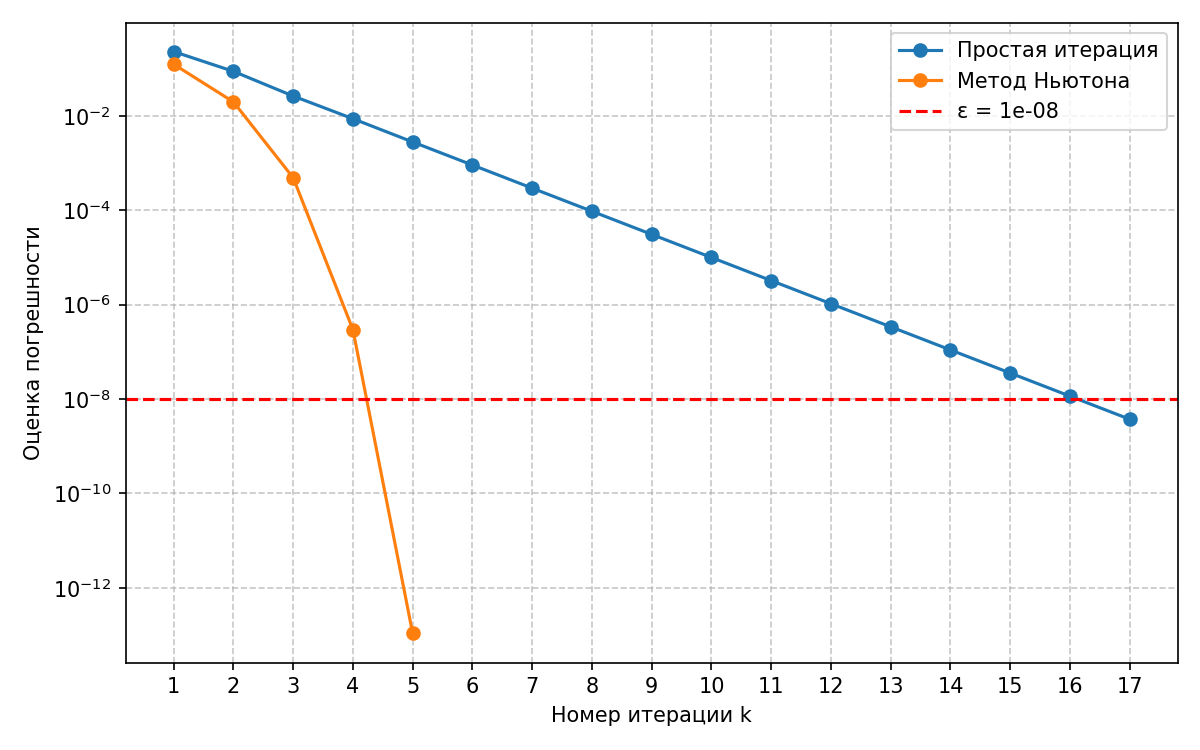
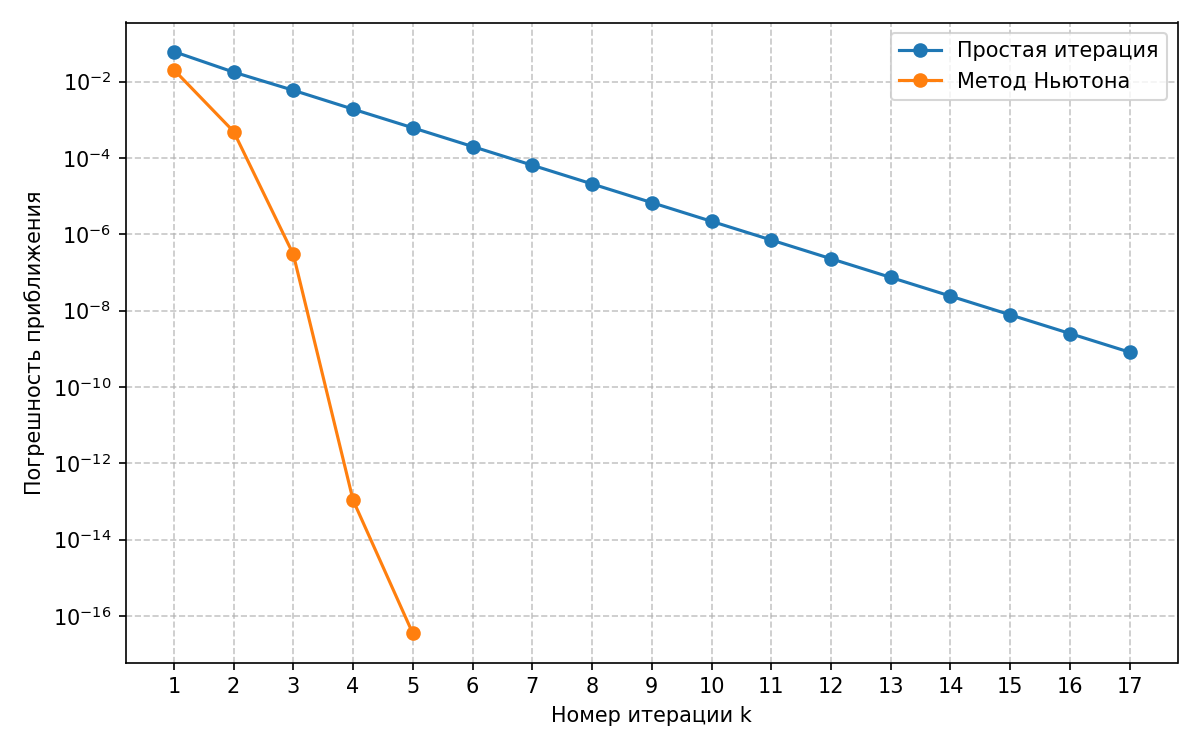
r

diff --git a/lab2/nonlinear_system.py b/lab2/nonlinear_system.py
@@ -37,7 +37,7 @@ def jacobian(values):
         raise ValueError("аргумент логарифма должен быть положительным")
     return np.array([
         [1, np.sin(x2)],
-        [-1 / ((x1 + 1) * np.log(10)), 1],
+        [-1 / ((x1 + 1) * np.log(np.longdouble(10))), 1],
     ])
 
 
@@ -109,7 +109,14 @@ def compare_methods(simple_count, newton_count):
     return "Метод Ньютона оказался быстрее."
 
 
-def create_plot(solution, initial, parameter, plot_config):
+def create_plot(
+    solution,
+    initial,
+    parameter,
+    x1_bounds,
+    x2_bounds,
+    plot_config,
+):
     """Построить графики уравнений системы."""
     import matplotlib.pyplot as plt
 
@@ -121,6 +128,15 @@ def create_plot(solution, initial, parameter, plot_config):
     plt.figure(figsize=(8, 5))
     plt.plot(first_x1, x2_values, label="x₁ = 1 + cos(x₂)")
     plt.plot(x1_values, second_x2, label="x₂ = 1 + lg(x₁ + 1)")
+    plt.axvline(
+        x1_bounds[0],
+        color="gray",
+        linestyle="--",
+        label="границы области D",
+    )
+    plt.axvline(x1_bounds[1], color="gray", linestyle="--")
+    plt.axhline(x2_bounds[0], color="gray", linestyle="--")
+    plt.axhline(x2_bounds[1], color="gray", linestyle="--")
     plt.scatter(
         *initial,
         color="orange",
@@ -137,8 +153,13 @@ def create_plot(solution, initial, parameter, plot_config):
     plt.close()
 
 
-def create_error_plot(simple_history, newton_history, epsilon, plot_config):
-    """Построить график зависимости погрешности от номера итерации."""
+def create_error_plot(
+    simple_history,
+    newton_history,
+    reference_solution,
+    plot_config,
+):
+    """Построить график ошибки относительно эталонного решения."""
     import matplotlib.pyplot as plt
 
     plt.figure(figsize=(8, 5))
@@ -147,17 +168,14 @@ def create_error_plot(simple_history, newton_history, epsilon, plot_config):
         (newton_history, "Метод Ньютона"),
     ):
         iterations = [item[0] for item in history]
-        errors = [item[2] for item in history]
+        errors = [
+            np.max(np.abs(item[1] - reference_solution))
+            for item in history
+        ]
         plt.semilogy(iterations, errors, marker="o", label=label)
 
-    plt.axhline(
-        epsilon,
-        color="red",
-        linestyle="--",
-        label=f"ε = {epsilon:g}",
-    )
     plt.xlabel("Номер итерации k")
-    plt.ylabel("Оценка погрешности")
+    plt.ylabel("Погрешность приближения")
     iterations = {
         item[0]
         for history in (simple_history, newton_history)
@@ -175,6 +193,7 @@ def main():
     try:
         config = read_json(INPUT_FILE)
         epsilon = float(config["epsilon"])
+        reference_epsilon = np.longdouble(epsilon) ** 2
         max_iterations = int(config["max_iterations"])
         parameter = float(config["a_parameter"])
         initial_guess = np.array(config["initial_guess"], dtype=float)
@@ -205,11 +224,25 @@ def main():
             parameter,
             zero_tolerance,
         )
-        create_plot(newton_solution, initial_guess, parameter, plot_config)
+        reference_solution, _, _ = newton_method(
+            initial_guess.astype(np.longdouble),
+            reference_epsilon,
+            max_iterations,
+            np.longdouble(parameter),
+            np.longdouble(zero_tolerance),
+        )
+        create_plot(
+            newton_solution,
+            initial_guess,
+            parameter,
+            x1_bounds,
+            x2_bounds,
+            plot_config,
+        )
         create_error_plot(
             simple_history,
             newton_history,
-            epsilon,
+            reference_solution,
             plot_config,
         )
 

diff --git a/lab2/nonlinear_equation.py b/lab2/nonlinear_equation.py
@@ -83,12 +83,18 @@ def create_plot(initial, bounds, plot_config):
     plt.plot(x_values, function(x_values), label="f(x) = x³ + x² - x - 0.5")
     plt.axhline(0, color="black", linewidth=0.8)
     plt.axvline(initial, color="gray", linestyle="--", label=f"x₀ = {initial:g}")
+    plt.axvline(
+        left_bound,
+        color="red",
+        linestyle="--",
+        label="границы отрезка",
+    )
+    plt.axvline(right_bound, color="red", linestyle="--")
     plt.scatter(
         [left_bound, right_bound],
         [function(left_bound), function(right_bound)],
         color="red",
         zorder=3,
-        label="границы отрезка",
     )
     plt.xlabel("x")
     plt.ylabel("f(x)")
@@ -99,8 +105,13 @@ def create_plot(initial, bounds, plot_config):
     plt.close()
 
 
-def create_error_plot(simple_history, newton_history, epsilon, plot_config):
-    """Построить график зависимости погрешности от номера итерации."""
+def create_error_plot(
+    simple_history,
+    newton_history,
+    reference_root,
+    plot_config,
+):
+    """Построить график ошибки относительно эталонного корня."""
     import matplotlib.pyplot as plt
 
     plt.figure(figsize=(8, 5))
@@ -109,17 +120,11 @@ def create_error_plot(simple_history, newton_history, epsilon, plot_config):
         (newton_history, "Метод Ньютона"),
     ):
         iterations = [item[0] for item in history]
-        errors = [item[2] for item in history]
+        errors = [abs(item[1] - reference_root) for item in history]
         plt.semilogy(iterations, errors, marker="o", label=label)
 
-    plt.axhline(
-        epsilon,
-        color="red",
-        linestyle="--",
-        label=f"ε = {epsilon:g}",
-    )
     plt.xlabel("Номер итерации k")
-    plt.ylabel("Оценка погрешности")
+    plt.ylabel("Погрешность приближения")
     iterations = {
         item[0]
         for history in (simple_history, newton_history)
@@ -137,6 +142,7 @@ def main():
     try:
         config = read_json(INPUT_FILE)
         epsilon = float(config["epsilon"])
+        reference_epsilon = np.longdouble(epsilon) ** 2
         max_iterations = int(config["max_iterations"])
         left_bound, right_bound = map(float, config["interval"])
         initial_guess = float(config["initial_guess"])
@@ -164,11 +170,17 @@ def main():
             max_iterations,
             zero_tolerance,
         )
+        reference_root, _, _ = newton_method(
+            np.longdouble(initial_guess),
+            reference_epsilon,
+            max_iterations,
+            np.longdouble(zero_tolerance),
+        )
         create_plot(initial_guess, (left_bound, right_bound), plot_config)
         create_error_plot(
             simple_history,
             newton_history,
-            epsilon,
+            reference_root,
             plot_config,
         )
 
